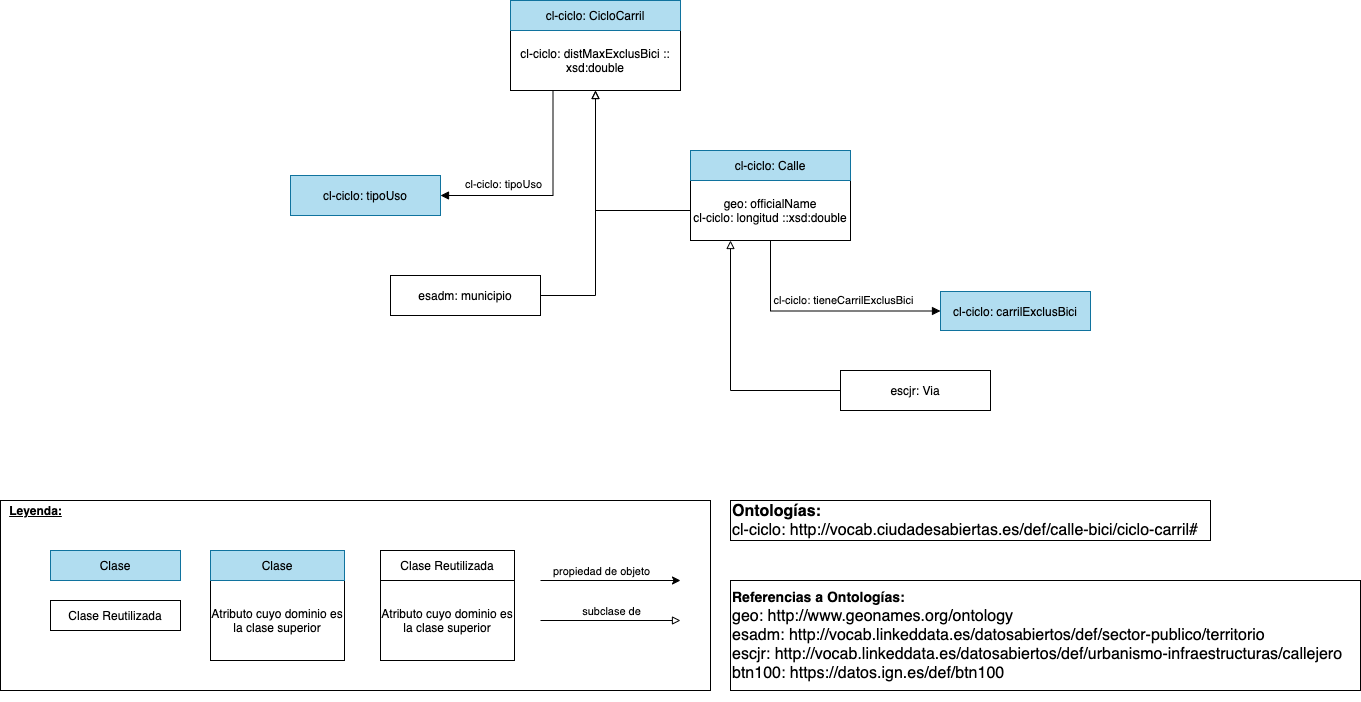
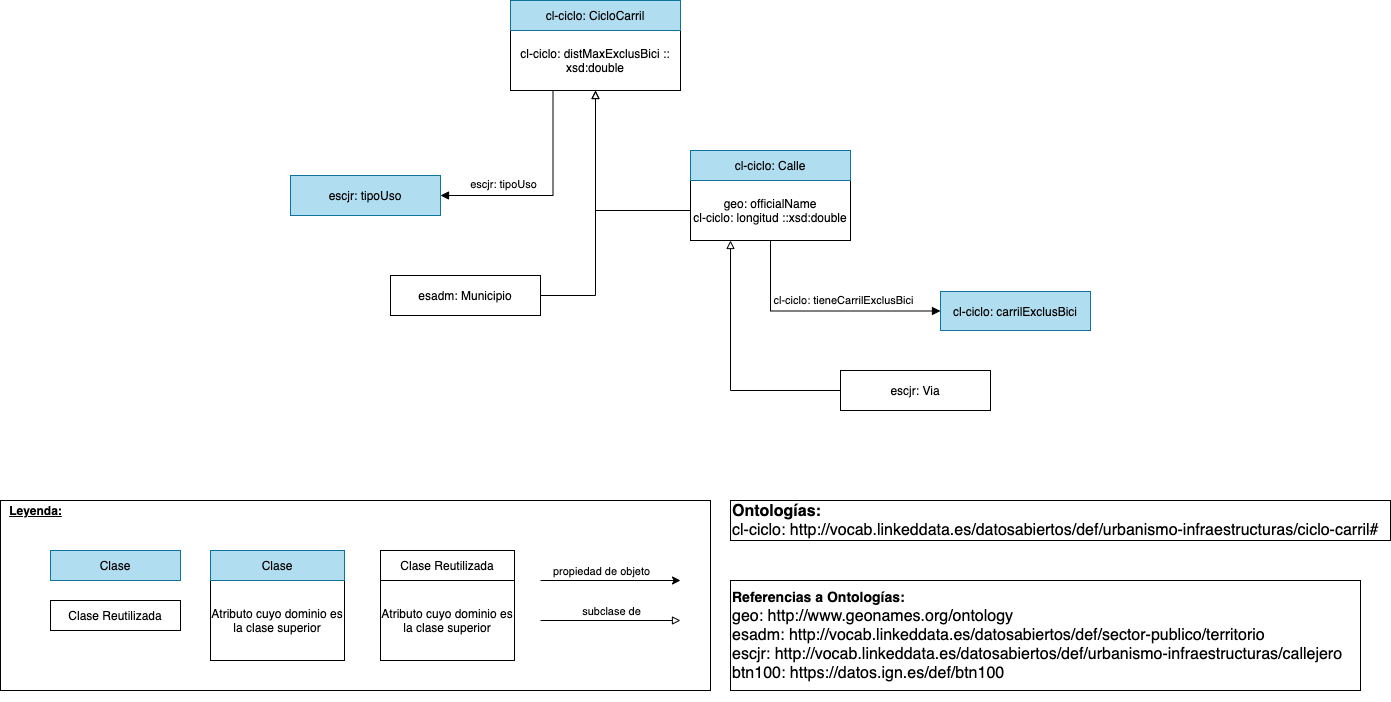
#10

diff --git a/Documentacion/secciones/022_cicloc/0223_VocabCicloCarril_PropObj.tex b/Documentacion/secciones/022_cicloc/0223_VocabCicloCarril_PropObj.tex
@@ -36,7 +36,7 @@ Calle asociada a un CicloCarril.
 \begin{mybox}{tipoUso}
 \begin{flushleft}
 \underline{\textbf{IRI:}}
-\url{http://vocab.linkeddata.es/datosabiertos/def/urbanismo-infraestructuras/ciclo-carril#tipoUso}
+\url{http://vocab.linkeddata.es/datosabiertos/def/urbanismo-infraestructuras/callejero#tipo-uso}
 \newline
 
 Identificador del tipo de uso que puede tener la calle. Se han definido 2 clases para ello:
@@ -45,9 +45,9 @@ Identificador del tipo de uso que puede tener la calle. Se han definido 2 clases
 \newline
 
 
-%\underline{\textbf{Definida por:}}
-%\url{http://vocab.ciudadesabiertas.es/def/calle-bici}
-%\newline
+\underline{\textbf{Definida por:}}
+\url{http://vocab.linkeddata.es/datosabiertos/def/urbanismo-infraestructuras/ciclo-carril}
+\newline
 
 \underline{\textbf{Dominio:}}
 \newline CicloCarril

diff --git a/Documentacion/secciones/023_caTran/0233_VocabCallesTranqui_PropObj.tex b/Documentacion/secciones/023_caTran/0233_VocabCallesTranqui_PropObj.tex
@@ -37,7 +37,7 @@ Calle asociada a una Calle Tranquila.
 \begin{mybox}{tipoUso}
 \begin{flushleft}
 \underline{\textbf{IRI:}}
-\url{http://vocab.ciudadesabiertas.es/def/calle-bici/calle-tranquila#tipoUso}
+\url{http://vocab.linkeddata.es/datosabiertos/def/urbanismo-infraestructuras/callejero#tipo-uso}
 \newline
 
 Identificador del tipo de uso que puede tener la calle. Se han definido 2 clases para ello:
@@ -46,9 +46,9 @@ Identificador del tipo de uso que puede tener la calle. Se han definido 2 clases
 \newline
 
 
-%\underline{\textbf{Definida por:}}
-%\url{http://vocab.ciudadesabiertas.es/def/calle-bici}
-%\newline
+\underline{\textbf{Definida por:}}
+\url{http://vocab.linkeddata.es/datosabiertos/def/urbanismo-infraestructuras/ciclo-carril}
+\newline
 
 \underline{\textbf{Dominio:}}
 \newline CalleTranquila
